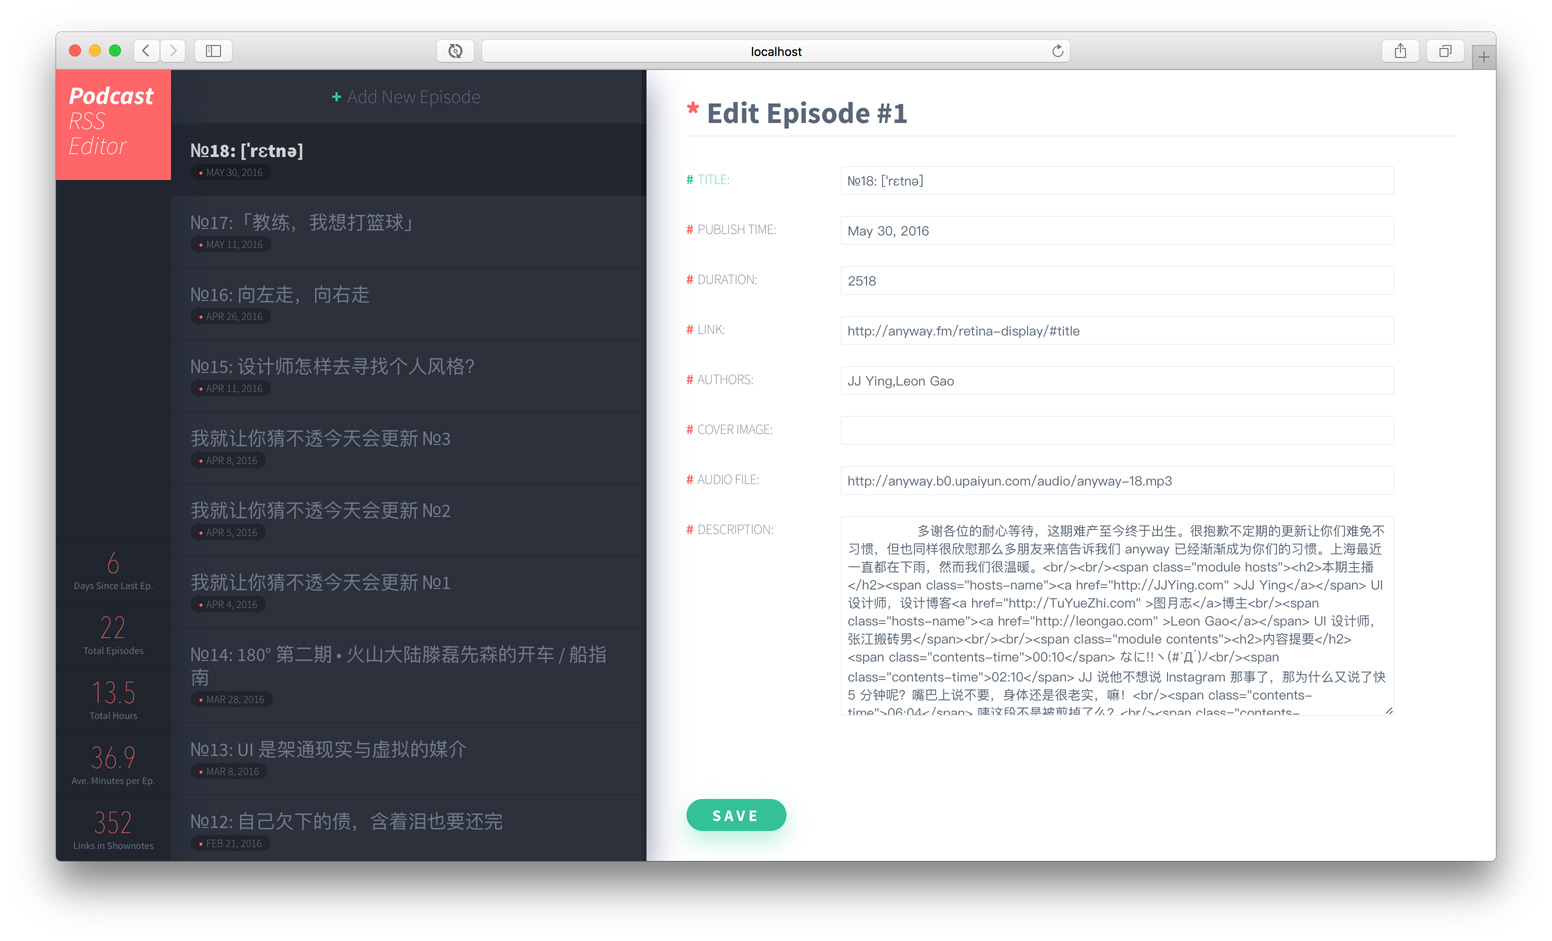
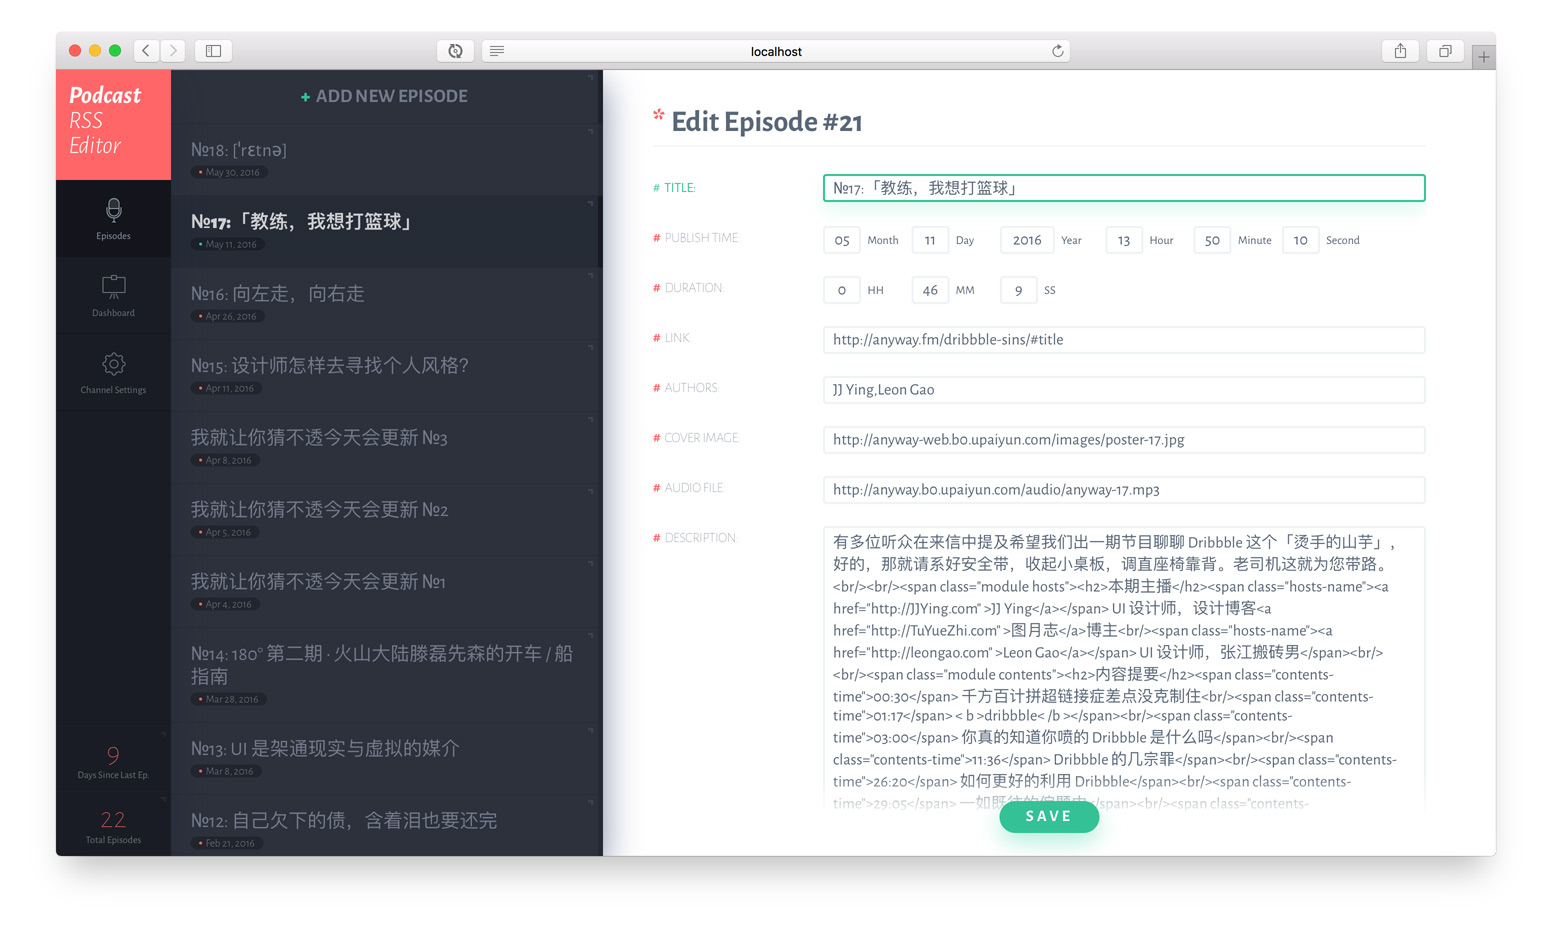
Added Nav bar

diff --git a/styles.css b/styles.css
@@ -59,12 +59,36 @@ nav{
 nav>ul li{
 	list-style: none;
 }
+nav>ul li .highlight{
+	background: #13151c;
+	color: #8d98a6;
+}
+nav>ul li .highlight path{
+	fill: #8d98a6;
+}
 nav>ul li a{
 	color: #66707d;
 	display: block;
 	padding: 1.5em 2em;
-	border-bottom: 1px solid #333;
+	border-bottom: 1px solid #13151c;
 	text-align: center;
+	-webkit-transition: all .1s ease-out;
+}
+nav>ul li a:hover{
+	color: #fff;
+}
+nav>ul li svg{
+	display: block;
+	margin: 0 auto .6em;
+	width: 30px;
+	height: 30px;
+}
+nav>ul li svg path{
+	fill: #66707d;
+	-webkit-transition: all .1s ease-out;	
+}
+nav>ul li a:hover path{
+	fill: #fff;
 }
 /*~Nav Dashboard*/
 .nav-dashboard{
@@ -347,6 +371,7 @@ input[type=submit]:hover{
 	text-align: center;
 	font-weight: 700;
 	color: rgba(0, 0, 0, .2);
+	position: relative;
 }
 .dashboard strong{
 	font-size: 8em;
@@ -431,7 +456,8 @@ input[type=submit]:hover{
 }
 /*~Decorations*/
 .item:before,
-.nav-dashboard li:before{
+.nav-dashboard li:before,
+.dashboard section:before{
 	content: "";
 	width: 3px;
 	height: 3px;

diff --git a/index.php b/index.php
@@ -82,10 +82,11 @@ if ($ep >= 0) {
 	$currentDate = "$thisDate[$ep]";
 	$currentDate2 = "$thisDate2[$ep]";
 	$currentAuthor = "$thisAuthor[$ep]";
+	$navHighlight1 = "highlight";
 	if ($_POST["yy"] =="yes") {	
 	
 		//Edit existing episodes
-	
+		$navHighlight1 = "highlight";
 		$NS = array( 
 		    'itunes' => 'http://www.itunes.com/dtds/podcast-1.0.dtd' 
 		);
@@ -115,6 +116,7 @@ elseif ($ep == -2) {
 	$fullDuration = strtotime($thisDate[0]) - strtotime($thisDate[($t-1)]);
 	$averageCycle = number_format(($fullDuration / $t / 86400),1);
 	$totalYears = number_format(($fullDuration / 31536000),1);
+	$navHighlight2 = "highlight";
 }
 else {
 	$panelTitle = "Add New Episode";
@@ -125,10 +127,10 @@ else {
 	$currentHour = 0;
 	$currentMinute = 0;
 	$currentSecond = 0;
+	$navHighlight1 = "highlight";
 	if ($_POST["yy"] =="yes") { 	
 		
 		//Add new episode
-		
 		$newDuration = $_POST["newHH"] * 3600 + $_POST["newMM"] * 60 + $_POST["newSS"];
 		$newDate = gmdate(DATE_RFC2822, gmmktime($_POST["newHour"], $_POST["newMinute"], $_POST["newSecond"], $_POST["newMonth"], $_POST["newDay"], $_POST["newYear"]));
 		$NS = array( 
@@ -178,9 +180,15 @@ class my_node extends SimpleXMLElement
 <nav>
 	<a href="?ep=-1" class="logo"><strong>Podcast</strong> RSS Editor</a>
 		<ul>
-			<li><a href="?ep=-1">Episodes</a></li>
-			<li><a href="?ep=-2">Dashboard</a></li>
-			<li><a href="?ep=-1">Channel Settings</a></li>
+			<li><a href="?ep=-1" class="<?php echo($navHighlight1);?>"><svg xmlns="http://www.w3.org/2000/svg" width="60" height="60" viewBox="0 0 60 60">
+			    <path id="Path" class="cls-1" d="M30,43A11.013,11.013,0,0,1,19,32V17a11,11,0,0,1,22,0V32A11.012,11.012,0,0,1,30,43ZM30,8a9.011,9.011,0,0,0-9,9V32a9,9,0,0,0,18,0V17A9.011,9.011,0,0,0,30,8Zm0,39A15.017,15.017,0,0,1,15,32V25a1,1,0,0,1,2,0v7a13,13,0,0,0,26,0V25a1,1,0,0,1,2,0v7A15.017,15.017,0,0,1,30,47Zm3,8H27a1,1,0,0,1,0-2h6A1,1,0,0,1,33,55Zm-3,0a1,1,0,0,1-1-1V46a1,1,0,0,1,2,0v8A1,1,0,0,1,30,55Zm6-31a1,1,0,1,1,1,1A1,1,0,0,1,36,24Zm-3,0a1,1,0,1,1,1,1A1,1,0,0,1,33,24Zm-3,0a1,1,0,1,1,1,1A1,1,0,0,1,30,24Zm-3,0a1,1,0,1,1,1,1A1,1,0,0,1,27,24Zm-3,0a1,1,0,1,1,1,1A1,1,0,0,1,24,24Zm-3,0a1,1,0,1,1,1,1A1,1,0,0,1,21,24Zm14-3a1,1,0,1,1,1,1A1,1,0,0,1,35,21Zm-3,0a1,1,0,1,1,1,1A1,1,0,0,1,32,21Zm-3,0a1,1,0,1,1,1,1A1,1,0,0,1,29,21Zm-3,0a1,1,0,1,1,1,1A1,1,0,0,1,26,21Zm-3,0a1,1,0,1,1,1,1A1,1,0,0,1,23,21Zm13-3a1,1,0,1,1,1,1A1,1,0,0,1,36,18Zm-3,0a1,1,0,1,1,1,1A1,1,0,0,1,33,18Zm-3,0a1,1,0,1,1,1,1A1,1,0,0,1,30,18Zm-3,0a1,1,0,1,1,1,1A1,1,0,0,1,27,18Zm-3,0a1,1,0,1,1,1,1A1,1,0,0,1,24,18Zm-3,0a1,1,0,1,1,1,1A1,1,0,0,1,21,18Zm14-3a1,1,0,1,1,1,1A1,1,0,0,1,35,15Zm-3,0a1,1,0,1,1,1,1A1,1,0,0,1,32,15Zm-3,0a1,1,0,1,1,1,1A1,1,0,0,1,29,15Zm-3,0a1,1,0,1,1,1,1A1,1,0,0,1,26,15Zm-3,0a1,1,0,1,1,1,1A1,1,0,0,1,23,15Zm13-3a1,1,0,1,1,1,1A1,1,0,0,1,36,12Zm-3,0a1,1,0,1,1,1,1A1,1,0,0,1,33,12Zm-3,0a1,1,0,1,1,1,1A1,1,0,0,1,30,12Zm-3,0a1,1,0,1,1,1,1A1,1,0,0,1,27,12Zm-3,0a1,1,0,1,1,1,1A1,1,0,0,1,24,12Zm-3,0a1,1,0,1,1,1,1A1,1,0,0,1,21,12ZM32,9a1,1,0,1,1,1,1A1,1,0,0,1,32,9ZM29,9a1,1,0,1,1,1,1A1,1,0,0,1,29,9ZM26,9a1,1,0,1,1,1,1A1,1,0,0,1,26,9ZM40,28H20a1,1,0,1,1,0-2H40A1,1,0,0,1,40,28Z"/>
+			</svg>Episodes</a></li>
+			<li><a href="?ep=-2" class="<?php echo($navHighlight2);?>"><svg xmlns="http://www.w3.org/2000/svg" width="60" height="60" viewBox="0 0 60 60">
+			    <path id="Dashboard-2" data-name="Dashboard" class="cls-1" d="M190,54a1,1,0,0,1-1-1V44a1,1,0,0,1,2,0v9A1,1,0,0,1,190,54Zm-8,0a1,1,0,0,1-.914-1.406l4-9a1,1,0,0,1,1.828.813l-4,9A1,1,0,0,1,182,54Zm16,0a1,1,0,0,1-.915-0.594l-4-9a1,1,0,0,1,1.828-.812l4,9A1,1,0,0,1,198,54Zm14-12H168a1,1,0,0,1-1-1V11a1,1,0,0,1,1-1h17a1,1,0,0,1,0,2H169V40h42V12H195a1,1,0,0,1,0-2h17a1,1,0,0,1,1,1V41A1,1,0,0,1,212,42ZM195,16H185a1,1,0,0,1-1-1V7a1,1,0,0,1,1-1h10a1,1,0,0,1,1,1v8A1,1,0,0,1,195,16Zm-9-2h8V8h-8v6Z" transform="translate(-160)"/>
+			</svg>Dashboard</a></li>
+			<li><a href="?ep=-1"><svg xmlns="http://www.w3.org/2000/svg" width="60" height="60" viewBox="0 0 60 60">
+			    <path id="settings-2" data-name="settings" class="cls-1" d="M351.331,53h-2.662a3,3,0,0,1-2.952-2.463l-0.385-2.123a18.784,18.784,0,0,1-5.044-2.1l-1.781,1.233a3.06,3.06,0,0,1-3.829-.346L332.8,45.322a3,3,0,0,1-.345-3.829l1.233-1.78a18.808,18.808,0,0,1-2.1-5.045l-2.123-.385A3,3,0,0,1,327,31.331V28.669a3,3,0,0,1,2.463-2.951l2.123-.386a18.808,18.808,0,0,1,2.1-5.045l-1.233-1.78a3,3,0,0,1,.345-3.829l1.883-1.882a3.059,3.059,0,0,1,3.828-.346l1.782,1.233a18.794,18.794,0,0,1,5.044-2.1l0.385-2.122A3,3,0,0,1,348.669,7h2.662a3,3,0,0,1,2.952,2.463l0.385,2.123a18.794,18.794,0,0,1,5.044,2.1l1.781-1.233a3.06,3.06,0,0,1,3.829.346l1.883,1.882a3,3,0,0,1,.345,3.829l-1.233,1.78a18.808,18.808,0,0,1,2.1,5.045l2.123,0.385A3,3,0,0,1,373,28.669v2.662a3,3,0,0,1-2.463,2.951l-2.123.386a18.808,18.808,0,0,1-2.1,5.045l1.233,1.78a3,3,0,0,1-.345,3.829L365.322,47.2a2.981,2.981,0,0,1-2.122.879h0a2.986,2.986,0,0,1-1.706-.533l-1.782-1.233a18.784,18.784,0,0,1-5.044,2.1l-0.385,2.122A3,3,0,0,1,351.331,53Zm-11.073-8.879a0.993,0.993,0,0,1,.542.16,16.856,16.856,0,0,0,5.609,2.331,1,1,0,0,1,.773.8l0.5,2.767a1,1,0,0,0,.984.821h2.662a1,1,0,0,0,.984-0.822l0.5-2.767a1,1,0,0,1,.773-0.8,16.856,16.856,0,0,0,5.609-2.331,1,1,0,0,1,1.112.017l2.32,1.606a1.02,1.02,0,0,0,1.276-.115l1.883-1.882a1,1,0,0,0,.114-1.276l-1.606-2.32a1,1,0,0,1-.018-1.111,16.859,16.859,0,0,0,2.331-5.608,1,1,0,0,1,.8-0.774l2.768-.5A1,1,0,0,0,371,31.331V28.669a1,1,0,0,0-.821-0.984l-2.768-.5a1,1,0,0,1-.8-0.774,16.858,16.858,0,0,0-2.331-5.608,1,1,0,0,1,.018-1.111l1.606-2.32a1,1,0,0,0-.114-1.276l-1.883-1.882a1.02,1.02,0,0,0-1.277-.115L360.312,15.7a1,1,0,0,1-1.112.018,16.862,16.862,0,0,0-5.609-2.331,1,1,0,0,1-.773-0.8l-0.5-2.768A1,1,0,0,0,351.331,9h-2.662a1,1,0,0,0-.984.822l-0.5,2.767a1,1,0,0,1-.773.8,16.862,16.862,0,0,0-5.609,2.331,1,1,0,0,1-1.112-.018l-2.32-1.606a1.02,1.02,0,0,0-1.276.115l-1.883,1.882a1,1,0,0,0-.114,1.276l1.606,2.32a1,1,0,0,1,.018,1.111,16.858,16.858,0,0,0-2.331,5.608,1,1,0,0,1-.8.774l-2.768.5a1,1,0,0,0-.821.983v2.662a1,1,0,0,0,.821.984l2.768,0.5a1,1,0,0,1,.8.774,16.859,16.859,0,0,0,2.331,5.608,1,1,0,0,1-.018,1.111l-1.606,2.32a1,1,0,0,0,.114,1.276l1.883,1.882a1.023,1.023,0,0,0,1.277.115l2.319-1.606A1,1,0,0,1,340.258,44.121ZM350,39a9,9,0,1,1,9-9A9.01,9.01,0,0,1,350,39Zm0-16a7,7,0,1,0,7,7A7.008,7.008,0,0,0,350,23Z" transform="translate(-320)"/>
+			</svg>Channel Settings</a></li>
 		</ul>
 	<section class="nav-dashboard"><?php echo($navDashboard);?></section>
 </nav>
